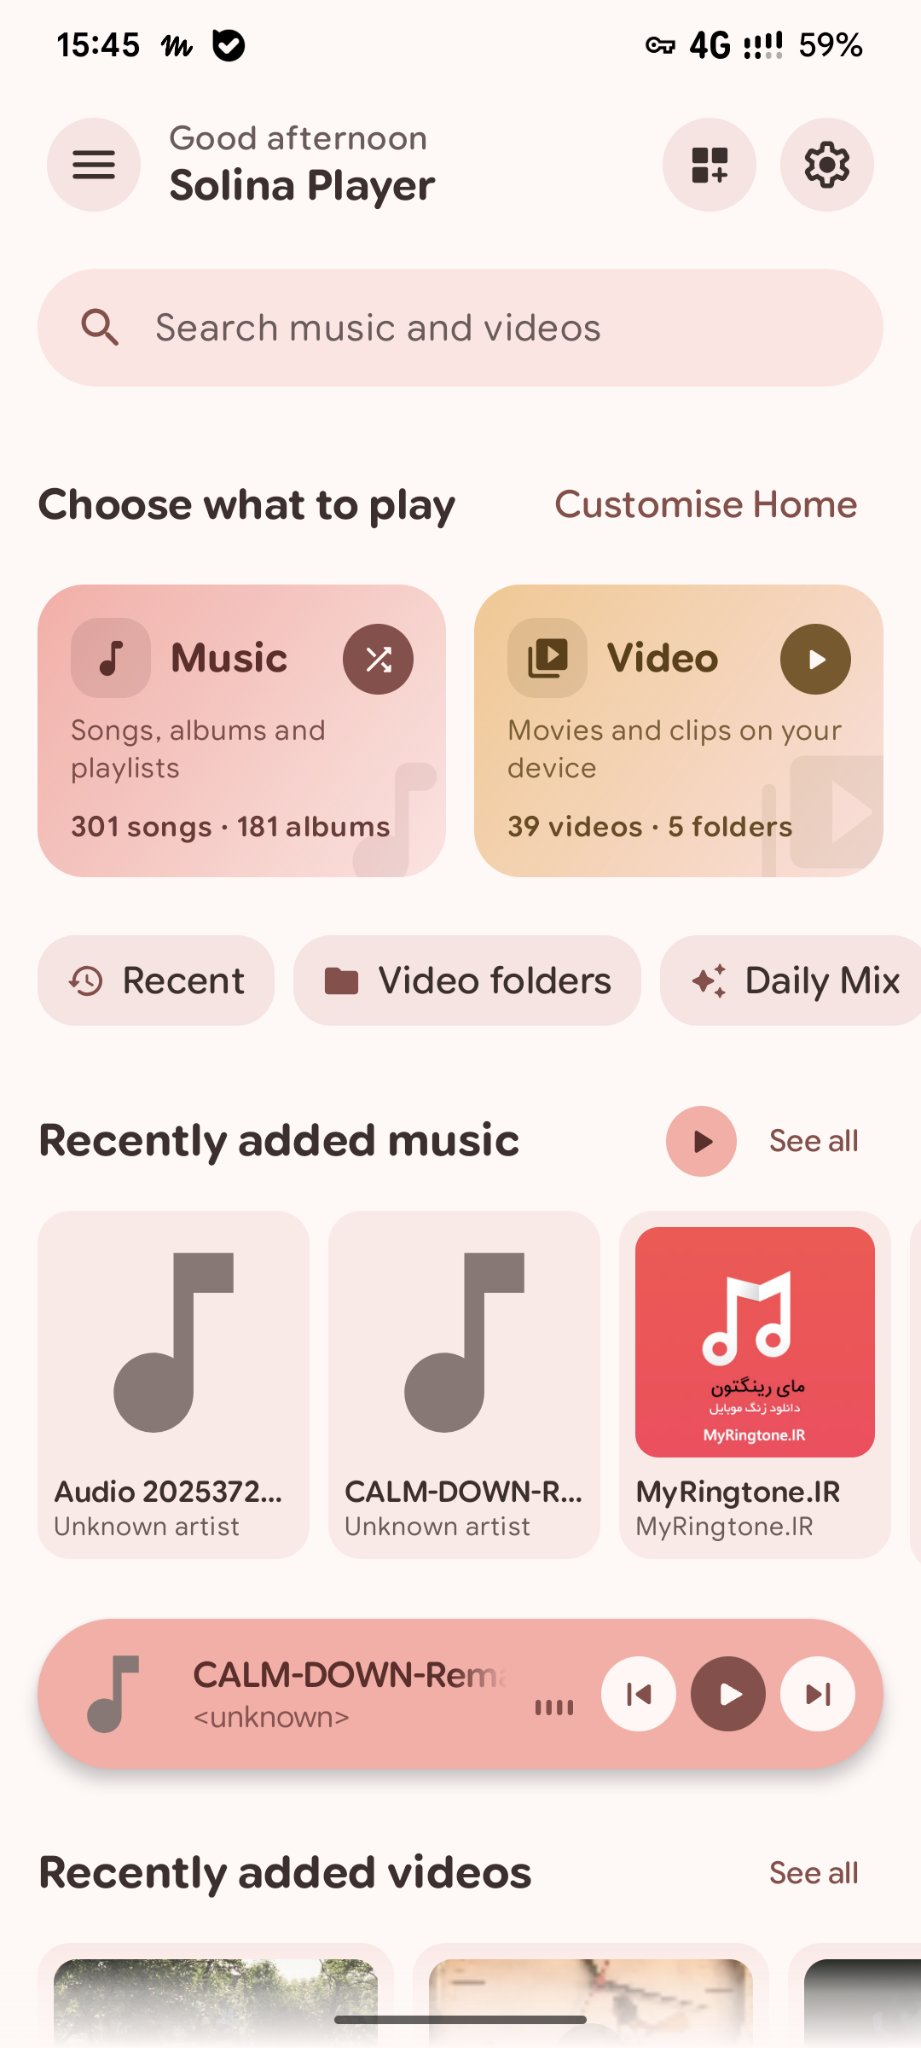
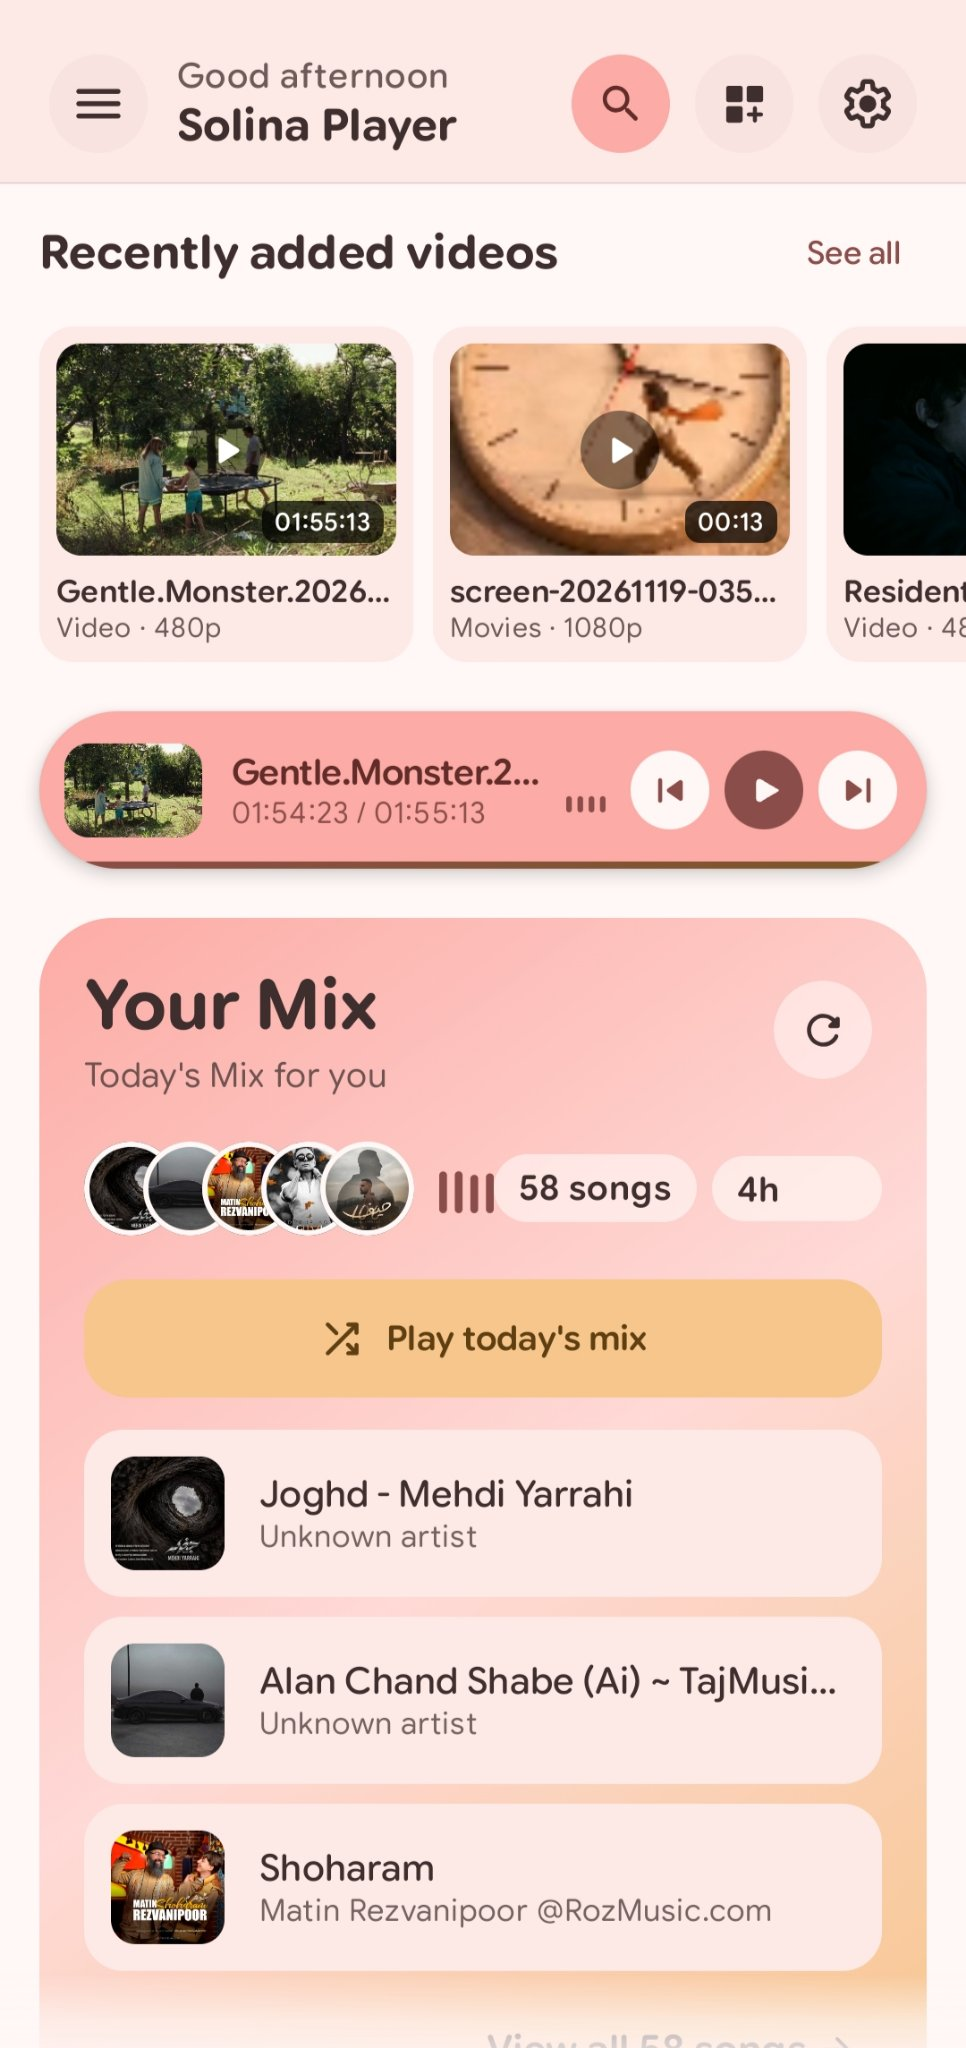
README: 6 new v1.1.0 screenshots, 3 per row; add What's new in v1.1.0

diff --git a/README.md b/README.md
@@ -11,21 +11,15 @@
 </p>
 
 <p align="center">
-  <img src="assets/screenshot1.jpeg" alt="Solina Player home screen" width="205"/>
-  <img src="assets/screenshot2.jpeg" alt="Solina Player now playing screen" width="205"/>
-  <img src="assets/screenshot3.jpeg" alt="Solina Player library screen" width="205"/>
+  <img src="assets/screenshot1.jpeg" alt="Solina Player now playing screen" width="205"/>
+  <img src="assets/screenshot2.jpeg" alt="Solina Player video folders" width="205"/>
+  <img src="assets/screenshot3.jpeg" alt="Solina Player library folders" width="205"/>
 </p>
 
 <p align="center">
-  <img src="assets/screenshot4.jpeg" alt="Solina Player lyrics screen" width="205"/>
-  <img src="assets/screenshot5.jpeg" alt="Solina Player home screen v1.1.0" width="205"/>
-  <img src="assets/screenshot6.jpeg" alt="Solina Player recent videos and Your Mix" width="205"/>
-</p>
-
-<p align="center">
-  <img src="assets/screenshot7.jpeg" alt="Solina Player listening stats" width="205"/>
-  <img src="assets/screenshot8.jpeg" alt="Solina Player library folders" width="205"/>
-  <img src="assets/screenshot9.jpeg" alt="Solina Player video folders" width="205"/>
+  <img src="assets/screenshot4.jpeg" alt="Solina Player home screen" width="205"/>
+  <img src="assets/screenshot5.jpeg" alt="Solina Player recent videos and Your Mix" width="205"/>
+  <img src="assets/screenshot6.jpeg" alt="Solina Player video player in landscape" width="205"/>
 </p>
 
 # Solina Player
@@ -67,6 +61,25 @@ screenshot, audio settings, sleep mode, night light and background
 playback. Video formats are what ExoPlayer plus the
 bundled FFmpeg decoders support (common containers such as MP4, MKV,
 WebM, MOV, AVI, 3GP and FLV); the music player behaviour is unchanged.
+
+## What's new in v1.1.0
+
+- **Video selection:** long-press any video in the library, search or
+  folders to select it, then play, add to playlist, share, rename, view
+  details or delete — the same selection system the music library
+  already had. Folders themselves are not selectable; rename and
+  details need exactly one video selected. Delete and rename ask for
+  the system MediaStore consent first.
+- **Swapped video swipes:** swiping up/down on the left side of the
+  video player now changes volume, on the right side brightness. The
+  indicator bars stay where they were (volume on the right,
+  brightness on the left).
+- **Seek stays quiet:** seeking in the video player no longer pops the
+  control bars up — only the seek preview shows.
+- **Home second tap:** tapping a recently-added song a second time
+  opens the full music player; tapping a recently-added video plays it
+  inside its card first, and a second tap opens it fullscreen from the
+  same position.
 
 ## What It Is
 
